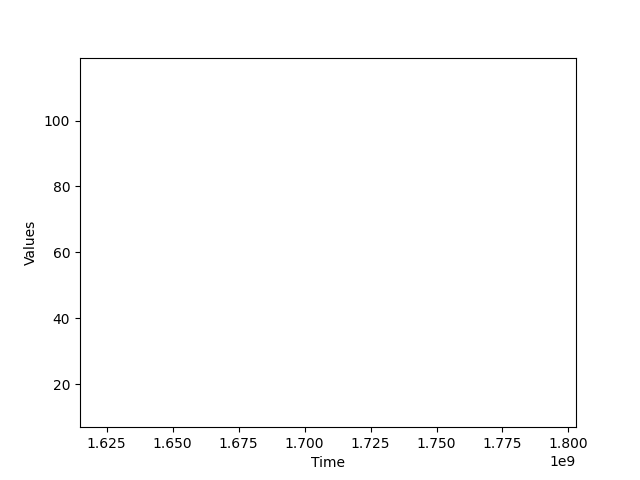
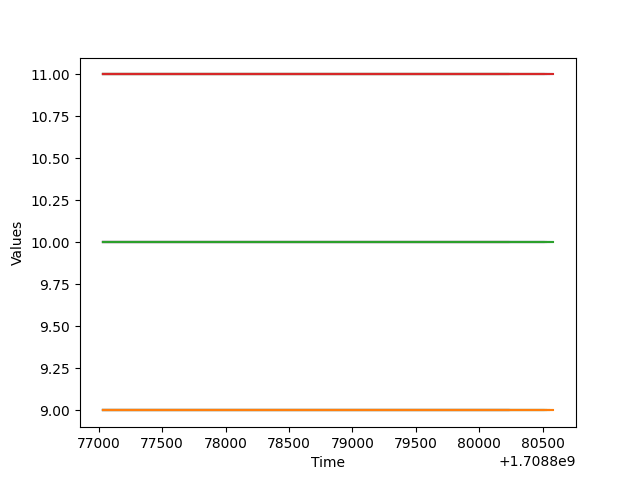
plt in viz.py

diff --git a/viz.py b/viz.py
@@ -1,0 +1,71 @@
+import serial as sl
+from datetime import datetime
+import matplotlib.pyplot as plt
+import numpy as np
+import time
+
+ser = sl.Serial('/dev/ttyUSB0', 9600)
+
+def get_data():
+    data = ser.readline().decode('utf-8').strip()
+    data = data.split()
+    return data
+
+time_stamp = list()
+temperature = list()
+humidity = list()
+pressure = list()
+
+fig, axs = plt.subplots(3)
+'''for ax in axs:
+        ax.legend()'''
+
+try:
+    while True:
+        data = get_data()
+        temperature.append(float(data[3]))
+        humidity.append(float(data[1]))
+        pressure.append(float(data[2]))
+    
+        time_stamp_val = ((datetime.now().strftime('%H:%M:%S')).split(':'))
+        for i in range(len(time_stamp_val)):
+            time_stamp_val[i] = int(time_stamp_val[i])
+        time_stamp_val = (time_stamp_val[0]*60) + time_stamp_val[1] + (time_stamp_val[2]/60)
+        time_stamp.append(time_stamp_val)
+
+        print(time_stamp, temperature, humidity, pressure)
+    
+        if len(time_stamp) > 10:
+            time_stamp.pop(0)
+            temperature.pop(0)
+            humidity.pop(0)
+            pressure.pop(0)
+    
+            for ax in axs:
+                ax.clear()
+    
+        axs[0].plot(time_stamp, temperature, 'r', label='Temperature')
+        axs[0].set_title('Temperature')
+    
+        #axs[0].set(xlim=(time_stamp[0]-5, time_stamp[-1]+5), ylim=(temperature[0]-10, temperature[-1]+10))
+
+        axs[1].plot(time_stamp, humidity, 'b', label='Humidity')
+        axs[1].set_title('Humidity')
+    
+        #axs[1].set(xlim=(time_stamp[0]-5, time_stamp[-1]+5), ylim=(humidity[0]-10, humidity[-1]+10))
+
+        axs[2].plot(time_stamp, pressure, 'g', label='Pressure')
+        axs[2].set_title('Pressure')
+    
+        #axs[2].set(xlim=(time_stamp[0]-5, time_stamp[-1]+5), ylim=(pressure[0]-10, pressure[-1]+10))
+
+        plt.tight_layout()
+        plt.pause(0.01)
+    
+        time.sleep(1)
+
+except KeyboardInterrupt:
+    ser.close()
+    print('Serial port closed')
+    plt.close()
+    print('Plot closed')

diff --git a/main.py b/main.py
@@ -11,7 +11,7 @@ import time as tim
 a = lambda x, y: x * 60 + y
 
 app = FastAPI()
-ser = sl.Serial('/dev/ttyUSB1', 9600)
+ser = sl.Serial('/dev/ttyUSB0', 9600)
 
 app.add_middleware(
 CORSMiddleware,
